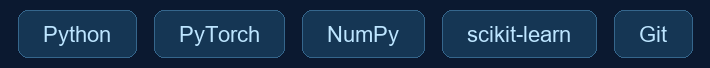
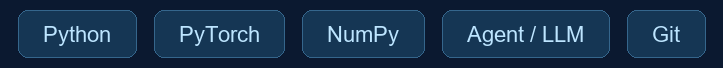
Add three featured repositories and blue profile layout

diff --git a/README.md b/README.md
@@ -7,7 +7,7 @@
 
 ---
 
-### About me · 关于我
+<h3><img src="assets/section-about.png" width="100%" alt="About me · 关于我" /></h3>
 
 Hi, I'm **Samual26710**.
 
@@ -16,17 +16,25 @@ Hi, I'm **Samual26710**.
 
 I'm a CS sophomore based in Beijing, learning AI theory through implementations, experiments, and notes.
 
-### Currently exploring · 最近在学
+<h3><img src="assets/section-projects.png" width="100%" alt="Selected projects · 我的项目" /></h3>
+
+<table>
+<tr><td width="32%"><a href="https://github.com/Samual26710/transformer-from-scratch"><img src="assets/transformer.png" width="260" alt="Transformer From Scratch" /></a></td><td>从零手写面向英中翻译的 Transformer，串联数据处理、模型训练与自回归评估。</td></tr>
+<tr><td width="32%"><a href="https://github.com/Samual26710/house-price-regression-techiques"><img src="assets/house-price.png" width="260" alt="House Price Regression" /></a></td><td>基于 Kaggle 房价数据，通过特征工程、五折交叉验证与多模型加权集成预测房屋成交价。</td></tr>
+<tr><td width="32%"><a href="https://github.com/Samual26710/snake"><img src="assets/snake.png" width="260" alt="Snake" /></a></td><td>北京邮电大学程序设计课程大作业：贪吃蛇游戏。</td></tr>
+</table>
+
+<h3><img src="assets/section-learning.png" width="100%" alt="Currently exploring · 最近在学" /></h3>
 
 - **AI & language models** — 学习 CS336，理解 Attention、Transformer 与语言模型的基本原理。
 - **From scratch** — 从逻辑回归到 Transformer，用 Python / PyTorch 练习实现、训练与评估。
 - **CS foundations** — 学习 CSAPP，补足计算机系统基础，让知识逐渐连成一张网。
 
-### My toolkit · 学习工具
+<h3><img src="assets/section-tools.png" width="100%" alt="My toolkit · 学习工具" /></h3>
 
-<p><img src="assets/toolkit.png" width="620" alt="Python · PyTorch · NumPy · scikit-learn · Git" /></p>
+<p><img src="assets/toolkit.png" width="620" alt="Python · PyTorch · NumPy · Agent / LLM · Git" /></p>
 
-### Beyond the equations · 公式之外
+<h3><img src="assets/section-beyond.png" width="100%" alt="Beyond the equations · 公式之外" /></h3>
 
 也会尝试聊天机器人、实用小工具和 vibe coding，把偶然冒出的想法做成可以使用的东西。
 
